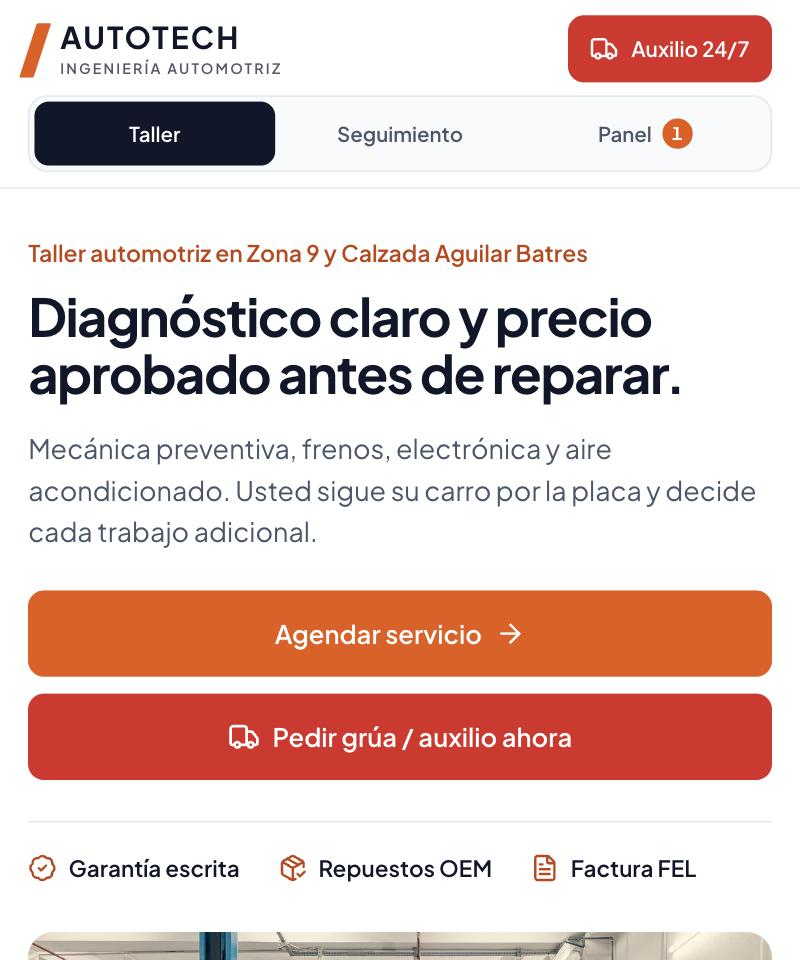
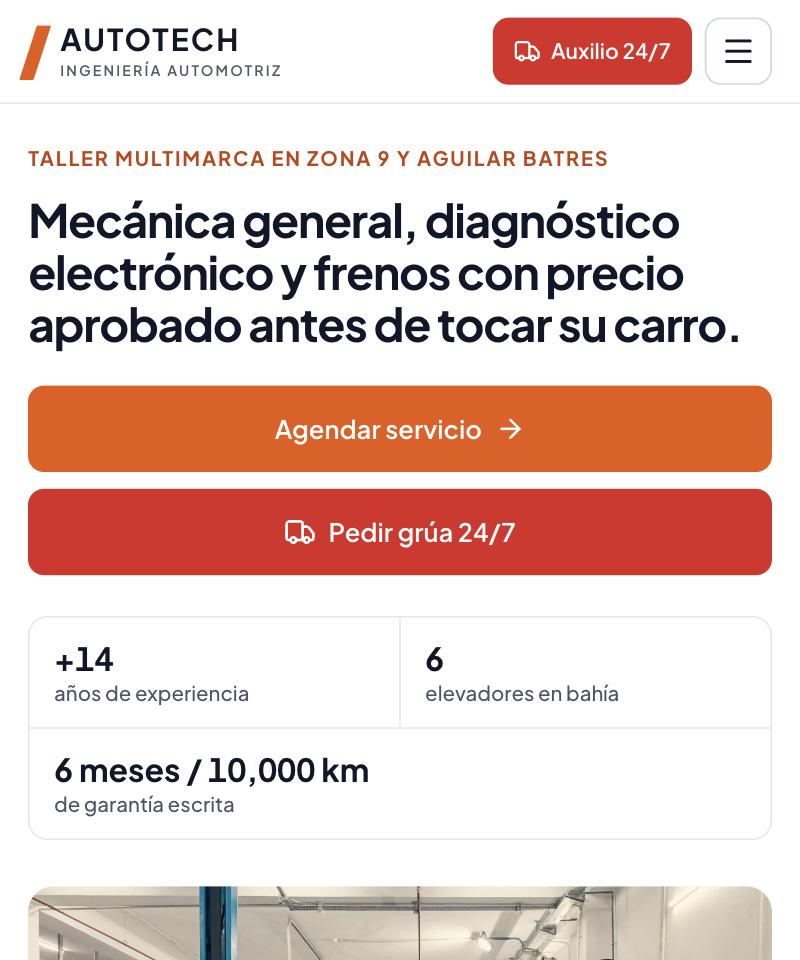
Taller: barra de navegación fija con menú en celular
Las tres vistas con contadores, accesos a las secciones de la portada y auxilio 24/7;
en celular y tableta, menú desplegable. Las secciones dejan espacio bajo la barra.

diff --git a/src/demos/taller/estilos.ts b/src/demos/taller/estilos.ts
@@ -66,47 +66,85 @@ export const ESTILOS = `
 .at-botones { display: flex; flex-wrap: wrap; gap: .65rem; }
 .at-nota { margin-top: .8rem; color: ${SUAVE}; font-size: .82rem; }
 
-/* barra fija con las tres vistas: es "sticky", ocupa su lugar y no tapa nada */
-.at-nav { position: sticky; top: 0; z-index: 30; background: ${BLANCO}; border-bottom: 1px solid ${BORDE}; }
-.at-nav-fila { display: grid; grid-template-columns: minmax(0, 1fr) auto; grid-template-areas: "logo auxilio" "vistas vistas"; align-items: center; gap: .5rem .75rem; padding-block: .6rem; }
-.at-nav-logo { grid-area: logo; justify-self: start; min-height: 42px; }
-.at-nav-auxilio { grid-area: auxilio; min-height: 42px; padding: .4rem .8rem; font-size: .82rem; }
-.at-nav-auxilio .at-largo { display: none; }
-.at-vistas { grid-area: vistas; display: grid; grid-template-columns: repeat(3, minmax(0, 1fr)); gap: 3px; padding: 3px; background: ${ACERO}; border: 1px solid ${BORDE}; border-radius: 12px; }
-.at-vistas button { display: inline-flex; align-items: center; justify-content: center; gap: .4rem; min-width: 0; min-height: 40px; padding-inline: .3rem; border-radius: 9px; color: ${SUAVE}; font-size: .8rem; font-weight: 600; white-space: nowrap; transition: background-color .15s, color .15s; }
-.at-vistas button:hover { color: ${PIZARRA}; }
-.at-vistas button[aria-current="page"] { background: ${PIZARRA}; color: #fff; }
-.at-vistas button i { display: grid; place-items: center; min-width: 19px; height: 19px; border-radius: 999px; background: ${NARANJA}; color: #fff; font-size: .68rem; font-style: normal; font-weight: 700; }
-.at-vistas svg, .at-vistas .at-largo { display: none; }
-@media (min-width: 560px) { .at-vistas svg { display: block; } .at-nav-auxilio .at-largo { display: inline; } }
-@media (min-width: 700px) { .at-vistas .at-largo { display: inline; } .at-vistas .at-corto { display: none; } }
-@media (min-width: 1080px) {
-  .at-nav-fila { grid-template-columns: 1fr auto 1fr; grid-template-areas: "logo vistas auxilio"; min-height: 74px; }
-  .at-vistas { display: flex; }
-  .at-vistas button { padding-inline: 1rem; font-size: .85rem; }
-  .at-nav-auxilio { justify-self: end; }
+/*
+ * Barra fija: es "sticky", ocupa su lugar y no tapa nada. Va en 39 para que el panel
+ * "Ver otras demos" de la banda de arriba (40) se abra por encima.
+ */
+.at-nav { position: sticky; top: 0; z-index: 39; background: rgba(255,255,255,.95); -webkit-backdrop-filter: blur(10px); backdrop-filter: blur(10px); border-bottom: 1px solid ${BORDE}; }
+.at-nav-fila { display: flex; align-items: center; justify-content: space-between; gap: .6rem; width: 100%; max-width: 86rem; min-height: 64px; margin-inline: auto; padding: .5rem 1.1rem; }
+.at-nav-logo { flex: none; min-height: 42px; }
+.at-nav-centro { display: none; }
+.at-nav-derecha { display: flex; flex: none; align-items: center; gap: .5rem; }
+.at .at-nav-auxilio { min-height: 42px; gap: .4rem; padding: .4rem .75rem; font-size: .83rem; white-space: nowrap; }
+.at-nav-palabra { display: none; }
+/* en celular el botón dice "Auxilio 24/7"; el icono aparece cuando hay espacio */
+@media (min-width: 375px) { .at-nav-palabra { display: inline; } }
+@media (min-width: 375px) and (max-width: 479px) { .at .at-nav-auxilio { padding-inline: .6rem; } .at .at-nav-auxilio svg { display: none; } }
+.at-nav-menu { display: grid; place-items: center; width: 42px; height: 42px; border: 1px solid ${BORDE_CAMPO}; border-radius: 10px; background: ${BLANCO}; }
+.at-nav-menu[aria-expanded="true"] { background: ${PIZARRA}; border-color: ${PIZARRA}; color: #fff; }
+
+.at-vistas button, .at-menu-vistas button { display: inline-flex; align-items: center; gap: .45rem; min-height: 40px; border-radius: 9px; color: ${SUAVE}; font-size: .84rem; font-weight: 600; white-space: nowrap; transition: background-color .15s, color .15s; }
+.at-vistas button:hover, .at-menu-vistas button:hover { color: ${PIZARRA}; }
+.at-vistas button[aria-current="page"], .at-menu-vistas button[aria-current="page"] { background: ${PIZARRA}; color: #fff; }
+.at-vistas i, .at-menu-vistas i { display: grid; place-items: center; min-width: 20px; height: 20px; padding-inline: 4px; border-radius: 999px; background: ${BORDE}; color: ${PIZARRA}; font-size: .7rem; font-style: normal; font-weight: 700; }
+.at-vistas i.at-badge-espera, .at-menu-vistas i.at-badge-espera { background: ${NARANJA}; color: #fff; }
+
+/* menú desplegable de celular y tableta */
+.at-menu { position: absolute; inset-inline: 0; top: 100%; display: grid; grid-template-columns: minmax(0, 1fr); gap: .7rem; max-height: calc(100dvh - 8rem); padding: .8rem 1.1rem 1.1rem; overflow-y: auto; background: ${BLANCO}; border-bottom: 1px solid ${BORDE}; box-shadow: 0 24px 40px -24px rgba(15,23,42,.45); animation: at-baja .22s cubic-bezier(.2,.8,.2,1) both; }
+@keyframes at-baja { from { opacity: 0; transform: translateY(-8px); } }
+.at-menu-vistas { display: grid; grid-template-columns: minmax(0, 1fr); gap: .25rem; }
+.at-menu-vistas button { width: 100%; min-height: 48px; padding-inline: .8rem; font-size: .95rem; }
+.at-menu-vistas i { margin-left: auto; }
+.at-menu > p { padding-top: .6rem; border-top: 1px solid ${BORDE}; color: ${SUAVE}; font-size: .78rem; font-weight: 600; }
+.at-menu-accesos { display: grid; grid-template-columns: repeat(2, minmax(0, 1fr)); gap: .45rem; }
+.at-menu-accesos button { min-height: 44px; border: 1px solid ${BORDE}; border-radius: 10px; background: ${ACERO}; font-size: .9rem; font-weight: 600; }
+@media (min-width: 640px) {
+  .at-menu { left: auto; right: 1.1rem; width: 24rem; border: 1px solid ${BORDE}; border-radius: 0 0 14px 14px; }
 }
-/* celulares angostos: logo, botón de auxilio y síntomas caben completos */
+
+/* desde laptop chica las vistas van en la barra */
+@media (min-width: 960px) {
+  .at-nav-fila { min-height: 72px; padding-inline: 1.75rem; }
+  .at-nav-centro { display: flex; align-items: center; justify-content: center; gap: .75rem; min-width: 0; }
+  .at-vistas { display: flex; gap: 3px; padding: 3px; background: ${ACERO}; border: 1px solid ${BORDE}; border-radius: 12px; }
+  .at-vistas button { padding-inline: .75rem; }
+  .at-vistas svg { display: none; }
+}
+.at-accesos-nav { display: none; }
+@media (min-width: 1100px) { .at-vistas svg { display: block; } }
+@media (min-width: 1280px) {
+  .at-nav-menu, .at-menu { display: none; }
+  .at-accesos-nav { display: flex; gap: .1rem; padding-left: .75rem; border-left: 1px solid ${BORDE}; }
+  .at-accesos-nav button { min-height: 40px; padding-inline: .6rem; border-radius: 8px; color: ${SUAVE}; font-size: .84rem; font-weight: 600; white-space: nowrap; }
+  .at-accesos-nav button:hover { background: ${ACERO}; color: ${PIZARRA}; }
+  .at-vistas svg { display: none; }
+}
+@media (min-width: 1440px) { .at-vistas svg { display: block; } }
+
+/* celulares angostos: logo, botones y síntomas caben completos */
 @media (max-width: 359px) {
+  .at-nav-fila { gap: .4rem; padding-inline: .8rem; }
   .at-nav-fila .at-logo { padding-left: 16px; }
   .at-nav-fila .at-logo b { font-size: 1rem; letter-spacing: .04em; }
   .at-nav-fila .at-logo small { font-size: .48rem; letter-spacing: .07em; }
-  .at .at-nav-auxilio { gap: .35rem; padding-inline: .55rem; font-size: .76rem; }
+  .at .at-nav-auxilio { gap: .3rem; padding-inline: .5rem; font-size: .76rem; }
+  .at-nav-menu { width: 40px; }
   .at .at-sintomas button { gap: .4rem; padding-inline: .5rem; font-size: .82rem; }
 }
-#at-nosotros, #at-triaje, #at-servicios, #at-equipo, #at-ubicacion { scroll-margin-top: 120px; }
+/* al saltar a una sección, la barra fija no tapa su título (equivale a scroll-mt-24) */
+#at-marcas, #at-nosotros, #at-calidad, #at-proceso, #at-triaje, #at-servicios, #at-equipo, #at-resenas, #at-ubicacion { scroll-margin-top: 6rem; }
 
 /* portada */
 .at-portada { border-bottom: 1px solid ${BORDE}; }
 .at-portada-fila { display: grid; gap: 1.8rem; padding-block: 1.6rem 2.4rem; }
 .at-sobre { color: ${NARANJA_HONDO}; font-size: .78rem; font-weight: 700; letter-spacing: .09em; text-transform: uppercase; line-height: 1.5; }
-.at .at-portada h1 { margin-top: .75rem; margin-bottom: 1.4rem; font-size: clamp(1.8rem, 4.3vw, 3rem); line-height: 1.12; letter-spacing: -.028em; text-wrap: balance; }
+.at .at-portada h1 { margin-top: .75rem; margin-bottom: 1.4rem; font-size: clamp(1.8rem, 3.7vw, 2.75rem); line-height: 1.13; letter-spacing: -.028em; }
 .at-metricas { display: grid; grid-template-columns: repeat(2, minmax(0, 1fr)); gap: 1px; margin-top: 1.6rem; background: ${BORDE}; border: 1px solid ${BORDE}; border-radius: 12px; overflow: hidden; }
 .at-metricas li { display: flex; flex-direction: column; padding: .8rem .95rem; background: ${BLANCO}; }
 .at-metricas li:last-child { grid-column: 1 / -1; }
-.at-metricas strong { font-family: ${TITULO}; font-size: 1.5rem; line-height: 1.2; }
+.at-metricas strong { font-family: ${TITULO}; font-size: clamp(1.25rem, 1.8vw, 1.4rem); line-height: 1.25; }
 .at-metricas span { color: ${SUAVE}; font-size: .8rem; font-weight: 500; line-height: 1.4; }
-@media (min-width: 640px) { .at-metricas { grid-template-columns: .85fr .85fr 1.3fr; } .at-metricas li:last-child { grid-column: auto; } }
+@media (min-width: 640px) { .at-metricas { grid-template-columns: repeat(2, minmax(0, max-content)) minmax(0, 1fr); } .at-metricas li:last-child { grid-column: auto; } }
 .at-portada-foto { position: relative; align-self: stretch; min-width: 0; }
 .at-portada-foto img { width: 100%; height: 100%; max-height: 50svh; aspect-ratio: 5 / 4; object-fit: cover; border-radius: 16px; }
 .at-portada-ficha { position: absolute; left: .8rem; bottom: .8rem; display: flex; align-items: center; gap: .75rem; max-width: calc(100% - 1.6rem); padding: .75rem 1rem; background: ${PIZARRA}; color: #fff; border-radius: 12px; }

diff --git a/src/demos/taller/Nav.tsx b/src/demos/taller/Nav.tsx
@@ -1,0 +1,142 @@
+/*
+ * Barra de navegación fija. En compu: logo, las tres vistas, accesos a la portada y auxilio.
+ * En celular y tableta: logo, auxilio y un menú desplegable con todo.
+ */
+import { useEffect, useRef, useState } from "react";
+import { LayoutDashboard, Menu, Search, Truck, Wrench, X } from "lucide-react";
+import { Logo } from "./Piezas";
+
+export type Vista = "taller" | "seguimiento" | "panel";
+
+const VISTAS = [
+  { id: "taller", nombre: "Taller y Auxilio", icono: Wrench },
+  { id: "seguimiento", nombre: "Seguimiento por Placa", icono: Search },
+  { id: "panel", nombre: "Panel Taller", icono: LayoutDashboard },
+] as const;
+
+const ACCESOS = [
+  { id: "at-marcas", nombre: "Marcas" },
+  { id: "at-calidad", nombre: "Repuestos" },
+  { id: "at-servicios", nombre: "Servicios" },
+  { id: "at-ubicacion", nombre: "Ubicación" },
+];
+
+export function Nav({
+  vista,
+  placas,
+  porAprobar,
+  alVista,
+  alSeccion,
+  alAuxilio,
+}: {
+  vista: Vista;
+  placas: number;
+  porAprobar: number;
+  alVista: (v: Vista) => void;
+  alSeccion: (id: string) => void;
+  alAuxilio: () => void;
+}) {
+  const [abierto, setAbierto] = useState(false);
+  const barra = useRef<HTMLElement>(null);
+  const boton = useRef<HTMLButtonElement>(null);
+
+  useEffect(() => setAbierto(false), [vista]);
+  useEffect(() => {
+    if (!abierto) return;
+    const tecla = (e: KeyboardEvent) => {
+      if (e.key !== "Escape") return;
+      setAbierto(false);
+      boton.current?.focus();
+    };
+    const fuera = (e: PointerEvent) => {
+      if (!barra.current?.contains(e.target as Node)) setAbierto(false);
+    };
+    /* al agrandar la ventana el menú deja de hacer falta */
+    const ancha = matchMedia("(min-width: 1280px)");
+    const crecio = () => ancha.matches && setAbierto(false);
+    addEventListener("keydown", tecla);
+    addEventListener("pointerdown", fuera);
+    ancha.addEventListener("change", crecio);
+    return () => {
+      removeEventListener("keydown", tecla);
+      removeEventListener("pointerdown", fuera);
+      ancha.removeEventListener("change", crecio);
+    };
+  }, [abierto]);
+
+  const elegir = (accion: () => void) => () => {
+    setAbierto(false);
+    accion();
+  };
+
+  const vistas = VISTAS.map(({ id, nombre, icono: Icono }) => {
+    const cuenta = id === "seguimiento" ? placas : id === "panel" ? porAprobar : 0;
+    const que = id === "seguimiento" ? "placas activas" : "pendientes de aprobación";
+    return (
+      <button key={id} type="button" aria-current={vista === id ? "page" : undefined} onClick={elegir(() => alVista(id))}>
+        <Icono size={17} aria-hidden />
+        <span>{nombre}</span>
+        {cuenta > 0 && (
+          <i className={id === "panel" ? "at-badge-espera" : undefined} title={`${cuenta} ${que}`}>
+            {cuenta}
+            <em className="at-oculto"> {que}</em>
+          </i>
+        )}
+      </button>
+    );
+  });
+
+  const accesos = ACCESOS.map((a) => (
+    <button key={a.id} type="button" onClick={elegir(() => alSeccion(a.id))}>
+      {a.nombre}
+    </button>
+  ));
+
+  return (
+    <header ref={barra} className="at-nav">
+      <div className="at-nav-fila">
+        <button type="button" className="at-nav-logo" onClick={elegir(() => alVista("taller"))} aria-label="Autotech Ingeniería Automotriz, ir al inicio">
+          <Logo />
+        </button>
+
+        <div className="at-nav-centro">
+          <nav className="at-vistas" aria-label="Vistas">
+            {vistas}
+          </nav>
+          {vista === "taller" && (
+            <nav className="at-accesos-nav" aria-label="Secciones de la portada">
+              {accesos}
+            </nav>
+          )}
+        </div>
+
+        <div className="at-nav-derecha">
+          <button type="button" className="at-btn at-rojo at-nav-auxilio" onClick={elegir(alAuxilio)}>
+            <Truck size={17} aria-hidden />
+            <span>
+              <span className="at-nav-palabra">Auxilio </span>24/7
+            </span>
+          </button>
+          <button ref={boton} type="button" className="at-nav-menu" aria-expanded={abierto} aria-controls="at-menu" aria-label={abierto ? "Cerrar menú" : "Abrir menú"} onClick={() => setAbierto((v) => !v)}>
+            {abierto ? <X size={22} aria-hidden /> : <Menu size={22} aria-hidden />}
+          </button>
+        </div>
+      </div>
+
+      {abierto && (
+        <div id="at-menu" className="at-menu">
+          <nav className="at-menu-vistas" aria-label="Vistas">
+            {vistas}
+          </nav>
+          <p>En la portada</p>
+          <nav className="at-menu-accesos" aria-label="Secciones de la portada">
+            {accesos}
+          </nav>
+          <button type="button" className="at-btn at-rojo at-lleno at-grande" onClick={elegir(alAuxilio)}>
+            <Truck size={19} aria-hidden /> Auxilio vial 24/7
+          </button>
+        </div>
+      )}
+    </header>
+  );
+}

diff --git a/src/demos/taller/TallerDemo.tsx b/src/demos/taller/TallerDemo.tsx
@@ -4,32 +4,24 @@
  * #seguimiento/P-482JKL) y Panel Taller (#panel). De lo compartido entre demos solo usa la banda superior.
  */
 import { useEffect, useLayoutEffect, useRef, useState } from "react";
-import { LayoutDashboard, Search, Truck, Wrench } from "lucide-react";
 import { BandaDemos } from "../comun";
 import { Auxilio } from "./Auxilio";
-import { useVista } from "./animar";
+import { irA, useVista } from "./animar";
 import { Cita } from "./Cita";
-import { normalizarPlaca, useAutotech, type FallaId, type Filtro, type Tipo } from "./datos";
+import { enTaller, normalizarPlaca, useAutotech, type FallaId, type Filtro, type Tipo } from "./datos";
 import { ESTILOS, LETRAS } from "./estilos";
 import { Inicio } from "./Inicio";
+import { Nav, type Vista } from "./Nav";
 import { Panel, type FiltroPanel } from "./Panel";
 import { Pie } from "./Pie";
-import { Logo } from "./Piezas";
 import { Seguimiento } from "./Seguimiento";
 
-type Vista = "taller" | "seguimiento" | "panel";
 function leer(): { vista: Vista; placa: string } {
   const [ruta, dato = ""] = location.hash.slice(1).split("/");
   if (ruta === "seguimiento") return { vista: "seguimiento", placa: normalizarPlaca(dato) };
   if (ruta === "panel") return { vista: "panel", placa: "" };
   return { vista: "taller", placa: "" };
 }
-
-const VISTAS = [
-  { id: "taller", nombre: "Taller y Auxilio", corto: "Taller", icono: Wrench },
-  { id: "seguimiento", nombre: "Seguimiento por Placa", corto: "Seguimiento", icono: Search },
-  { id: "panel", nombre: "Panel Taller", corto: "Panel", icono: LayoutDashboard },
-] as const;
 
 const TITULOS: Record<Vista, string> = {
   taller: "Autotech · Demo de Jzet Labs",
@@ -47,6 +39,8 @@ export default function TallerDemo() {
   const [cita, setCita] = useState<string | null>(null);
   const [auxilio, setAuxilio] = useState<FallaId | "" | null>(null);
   const principal = useRef<HTMLElement>(null);
+  /* sección de la portada a la que hay que bajar cuando ya esté pintada */
+  const destino = useRef("");
   useVista(principal, vista);
 
   useLayoutEffect(() => {
@@ -87,6 +81,13 @@ export default function TallerDemo() {
 
   useEffect(() => {
     document.title = TITULOS[vista];
+    const id = destino.current;
+    if (!id) return;
+    const t = window.setTimeout(() => {
+      destino.current = "";
+      irA(id);
+    }, 120);
+    return () => window.clearTimeout(t);
   }, [vista]);
 
   function ir(nueva: Vista, conPlaca = placa) {
@@ -102,36 +103,24 @@ export default function TallerDemo() {
     setVista(nueva);
   }
 
+  function irSeccion(id: string) {
+    if (vista === "taller") {
+      irA(id);
+      return;
+    }
+    destino.current = id;
+    ir("taller");
+  }
+
   const porAprobar = taller.estado.ordenes.filter((o) => o.etapa === 3).length;
+  const placasActivas = taller.estado.ordenes.filter(enTaller).length;
 
   return (
     <>
       <style>{ESTILOS}</style>
       <BandaDemos />
       <div className="at">
-        <header className="at-nav">
-          <div className="at-ancho at-nav-fila">
-            <button type="button" className="at-nav-logo" onClick={() => ir("taller")} aria-label="Autotech, ir al inicio">
-              <Logo />
-            </button>
-            <nav className="at-vistas" aria-label="Secciones">
-              {VISTAS.map(({ id, nombre, corto, icono: Icono }) => (
-                <button key={id} type="button" aria-current={vista === id ? "page" : undefined} onClick={() => ir(id)} aria-label={nombre}>
-                  <Icono size={17} aria-hidden />
-                  <span className="at-largo">{nombre}</span>
-                  <span className="at-corto">{corto}</span>
-                  {id === "panel" && porAprobar > 0 && <i title="Pendientes de aprobación">{porAprobar}</i>}
-                </button>
-              ))}
-            </nav>
-            <button type="button" className="at-btn at-rojo at-nav-auxilio" onClick={() => setAuxilio("")}>
-              <Truck size={18} aria-hidden />
-              <span>
-                Auxilio<span className="at-largo"> vial</span> 24/7
-              </span>
-            </button>
-          </div>
-        </header>
+        <Nav vista={vista} placas={placasActivas} porAprobar={porAprobar} alVista={(v) => ir(v)} alSeccion={irSeccion} alAuxilio={() => setAuxilio("")} />
 
         <main ref={principal}>
           {vista === "taller" && <Inicio tipo={tipo} alTipo={setTipo} filtro={filtro} alFiltrar={setFiltro} alAgendar={setCita} alAuxilio={(f) => setAuxilio(f ?? "")} />}
